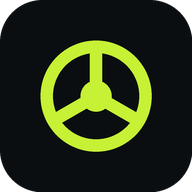
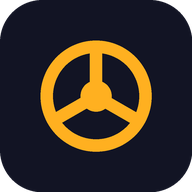
style: novo visual premium (índigo + âmbar-ouro, sem verde)
- Paleta trocada: fundo índigo profundo e destaque âmbar-ouro (dinheiro/
  faróis); lucro em ouro, prejuízo em coral, neutro em azul. Zero verde.
- Fonte de exibição Bricolage Grotesque (mais personalidade que a genérica)
- Polimento: hero com brilho âmbar e realce interno, títulos com traço
  âmbar→coral, gradientes de barras quentes
- Mapa: rota e marcador em âmbar
- Ícones do app e favicon recoloridos; theme-color atualizado

Claude-Session: https://claude.ai/code/session_01QTyrNgaj2GP6qxbPU5xxX6

Changed region(s): [[0.1875, 0.1875, 0.8125, 0.8125]]

diff --git a/frontend/src/styles/global.css b/frontend/src/styles/global.css
@@ -1,29 +1,30 @@
 :root {
-  /* Paleta — painel escuro tipo cockpit/fintech */
-  --bg: #0b0e11;
-  --bg-grad: radial-gradient(1200px 600px at 50% -10%, #131a20 0%, #0b0e11 55%);
-  --surface: #14181d;
-  --surface-2: #1a2027;
-  --surface-3: #202832;
-  --border: #262e37;
-  --border-soft: #1e252d;
+  /* Paleta — cockpit à noite: índigo profundo + âmbar-ouro */
+  --bg: #0b0d14;
+  --bg-grad: radial-gradient(1200px 640px at 50% -14%, #191f31 0%, #0b0d14 60%);
+  --surface: #141824;
+  --surface-2: #1b2030;
+  --surface-3: #232a3d;
+  --border: #2b3346;
+  --border-soft: #1e2432;
 
-  --text: #eef2f5;
-  --text-dim: #8a94a0;
-  --text-faint: #5c6672;
+  --text: #eef1f7;
+  --text-dim: #98a1b6;
+  --text-faint: #626b82;
 
-  --accent: #c6f135;       /* lima elétrico — "go" / dinheiro */
-  --accent-ink: #0b0e11;   /* texto sobre o accent */
-  --pos: #2ed47a;          /* lucro / positivo */
-  --neg: #f0524d;          /* prejuízo / gasto */
-  --warn: #f5a623;         /* alertas */
-  --info: #4aa8ff;
+  --accent: #ffb020;       /* âmbar-ouro — dinheiro / faróis */
+  --accent-2: #ff7d54;     /* coral quente (gradientes) */
+  --accent-ink: #14120a;   /* texto sobre o âmbar */
+  --pos: #ffbf47;          /* lucro / positivo (ouro) */
+  --neg: #ff5d6c;          /* prejuízo / gasto (coral) */
+  --warn: #ffb020;         /* alertas */
+  --info: #6f8dff;         /* neutro / informativo */
 
   --radius: 18px;
   --radius-sm: 12px;
   --shadow: 0 10px 30px -12px rgba(0, 0, 0, 0.7);
 
-  --font-display: "Space Grotesk", system-ui, sans-serif;
+  --font-display: "Bricolage Grotesque", system-ui, sans-serif;
   --font-body: "Inter", system-ui, -apple-system, sans-serif;
 
   --safe-top: env(safe-area-inset-top, 0px);
@@ -136,12 +137,16 @@ a {
 }
 
 .hero {
-  background: linear-gradient(160deg, #1c2530 0%, #14181d 70%);
+  background: linear-gradient(158deg, #1e2437 0%, #141824 72%);
   border: 1px solid var(--border);
   border-radius: 22px;
   padding: 22px;
   position: relative;
   overflow: hidden;
+  box-shadow: inset 0 1px 0 rgba(255, 255, 255, 0.04), var(--shadow);
+}
+.hero .big {
+  text-shadow: 0 0 26px rgba(255, 176, 32, 0.14);
 }
 .hero::after {
   content: "";
@@ -150,7 +155,7 @@ a {
   top: -40px;
   width: 160px;
   height: 160px;
-  background: radial-gradient(circle, rgba(198, 241, 53, 0.16), transparent 70%);
+  background: radial-gradient(circle, rgba(255, 176, 32, 0.18), transparent 70%);
 }
 .hero .label {
   font-size: 13px;
@@ -211,7 +216,7 @@ a {
 .meta-bar > span {
   display: block;
   height: 100%;
-  background: linear-gradient(90deg, var(--accent), var(--pos));
+  background: linear-gradient(90deg, var(--accent), var(--accent-2));
   border-radius: 999px;
   transition: width 0.6s cubic-bezier(0.22, 1, 0.36, 1);
 }
@@ -223,7 +228,20 @@ a {
   justify-content: space-between;
   margin: 26px 2px 12px;
 }
-.section-title h3 { font-size: 16px; font-weight: 600; }
+.section-title h3 {
+  font-size: 16px;
+  font-weight: 600;
+  display: flex;
+  align-items: center;
+  gap: 9px;
+}
+.section-title h3::before {
+  content: "";
+  width: 4px;
+  height: 15px;
+  border-radius: 2px;
+  background: linear-gradient(var(--accent), var(--accent-2));
+}
 .section-title a { font-size: 13px; color: var(--accent); }
 
 /* ---------- List rows ---------- */
@@ -340,7 +358,7 @@ a {
   display: grid;
   place-items: center;
   font-size: 30px;
-  box-shadow: 0 8px 24px -6px rgba(198, 241, 53, 0.5);
+  box-shadow: 0 8px 24px -6px rgba(255, 176, 32, 0.5);
 }
 .fab:active { transform: translateX(-50%) scale(0.92); }
 
@@ -545,9 +563,9 @@ a {
   margin-bottom: 18px;
   border: 1px solid var(--border);
 }
-.veredito.otimo { background: rgba(46, 212, 122, 0.12); border-color: rgba(46, 212, 122, 0.4); }
-.veredito.ok { background: rgba(245, 166, 35, 0.12); border-color: rgba(245, 166, 35, 0.4); }
-.veredito.prejuizo { background: rgba(240, 82, 77, 0.12); border-color: rgba(240, 82, 77, 0.4); }
+.veredito.otimo { background: rgba(255, 176, 32, 0.12); border-color: rgba(255, 176, 32, 0.4); }
+.veredito.ok { background: rgba(111, 141, 255, 0.12); border-color: rgba(111, 141, 255, 0.4); }
+.veredito.prejuizo { background: rgba(255, 93, 108, 0.12); border-color: rgba(255, 93, 108, 0.4); }
 .veredito .selo { font-size: 40px; }
 .veredito .tit {
   font-family: var(--font-display);
@@ -555,8 +573,8 @@ a {
   font-weight: 700;
   margin: 6px 0 2px;
 }
-.veredito.otimo .tit { color: var(--pos); }
-.veredito.ok .tit { color: var(--warn); }
+.veredito.otimo .tit { color: var(--accent); }
+.veredito.ok .tit { color: var(--info); }
 .veredito.prejuizo .tit { color: var(--neg); }
 .veredito .det { font-size: 14px; color: var(--text-dim); }
 .vp-linhas { display: grid; gap: 10px; margin-top: 4px; }
@@ -587,22 +605,22 @@ a {
   transition: all 0.25s;
 }
 .turno.rodando {
-  background: linear-gradient(120deg, rgba(46, 212, 122, 0.14), var(--surface) 60%);
-  border-color: rgba(46, 212, 122, 0.4);
+  background: linear-gradient(120deg, rgba(255, 176, 32, 0.14), var(--surface) 60%);
+  border-color: rgba(255, 176, 32, 0.4);
 }
 .turno .live-dot {
   width: 12px;
   height: 12px;
   border-radius: 50%;
-  background: var(--pos);
+  background: var(--accent);
   flex-shrink: 0;
-  box-shadow: 0 0 0 0 rgba(46, 212, 122, 0.5);
+  box-shadow: 0 0 0 0 rgba(255, 176, 32, 0.5);
   animation: pulse 1.6s infinite;
 }
 @keyframes pulse {
-  0% { box-shadow: 0 0 0 0 rgba(46, 212, 122, 0.5); }
-  70% { box-shadow: 0 0 0 12px rgba(46, 212, 122, 0); }
-  100% { box-shadow: 0 0 0 0 rgba(46, 212, 122, 0); }
+  0% { box-shadow: 0 0 0 0 rgba(255, 176, 32, 0.5); }
+  70% { box-shadow: 0 0 0 12px rgba(255, 176, 32, 0); }
+  100% { box-shadow: 0 0 0 0 rgba(255, 176, 32, 0); }
 }
 .turno .info { flex: 1; }
 .turno .info .st { font-size: 12px; color: var(--text-dim); }

diff --git a/frontend/index.html b/frontend/index.html
@@ -4,7 +4,7 @@
     <meta charset="UTF-8" />
     <link rel="icon" type="image/svg+xml" href="/favicon.svg" />
     <meta name="viewport" content="width=device-width, initial-scale=1.0, viewport-fit=cover, maximum-scale=1.0, user-scalable=no" />
-    <meta name="theme-color" content="#0b0e11" />
+    <meta name="theme-color" content="#0b0d14" />
     <meta name="apple-mobile-web-app-capable" content="yes" />
     <meta name="apple-mobile-web-app-status-bar-style" content="black-translucent" />
     <meta name="mobile-web-app-capable" content="yes" />
@@ -12,7 +12,7 @@
     <link rel="preconnect" href="https://fonts.googleapis.com" />
     <link rel="preconnect" href="https://fonts.gstatic.com" crossorigin />
     <link
-      href="https://fonts.googleapis.com/css2?family=Space+Grotesk:wght@400;500;600;700&family=Inter:wght@400;500;600&display=swap"
+      href="https://fonts.googleapis.com/css2?family=Bricolage+Grotesque:opsz,wght@12..96,500;12..96,600;12..96,700;12..96,800&family=Inter:wght@400;500;600&display=swap"
       rel="stylesheet"
     />
   </head>

diff --git a/frontend/src/components/MapaRota.tsx b/frontend/src/components/MapaRota.tsx
@@ -30,7 +30,7 @@ export default function MapaRota({ pontos, height = 180, follow = true }: Props)
       maxZoom: 19,
     }).addTo(map);
 
-    linhaRef.current = L.polyline(pontos, { color: "#c6f135", weight: 5, opacity: 0.9 }).addTo(map);
+    linhaRef.current = L.polyline(pontos, { color: "#ffb020", weight: 5, opacity: 0.95 }).addTo(map);
     mapRef.current = map;
     // corrige tamanho quando o container acabou de aparecer
     setTimeout(() => map.invalidateSize(), 60);
@@ -56,9 +56,9 @@ export default function MapaRota({ pontos, height = 180, follow = true }: Props)
       if (!pontoRef.current) {
         pontoRef.current = L.circleMarker(atual, {
           radius: 7,
-          color: "#0b0e11",
+          color: "#0b0d14",
           weight: 2,
-          fillColor: "#2ed47a",
+          fillColor: "#ffbf47",
           fillOpacity: 1,
         }).addTo(map);
       } else {

diff --git a/frontend/vite.config.ts b/frontend/vite.config.ts
@@ -12,8 +12,8 @@ export default defineConfig({
         name: "Volante — Gestão do Motorista",
         short_name: "Volante",
         description: "Controle de corridas, ganhos, gastos e metas do seu dia como motorista de app.",
-        theme_color: "#0b0e11",
-        background_color: "#0b0e11",
+        theme_color: "#0b0d14",
+        background_color: "#0b0d14",
         display: "standalone",
         orientation: "portrait",
         start_url: "/",
